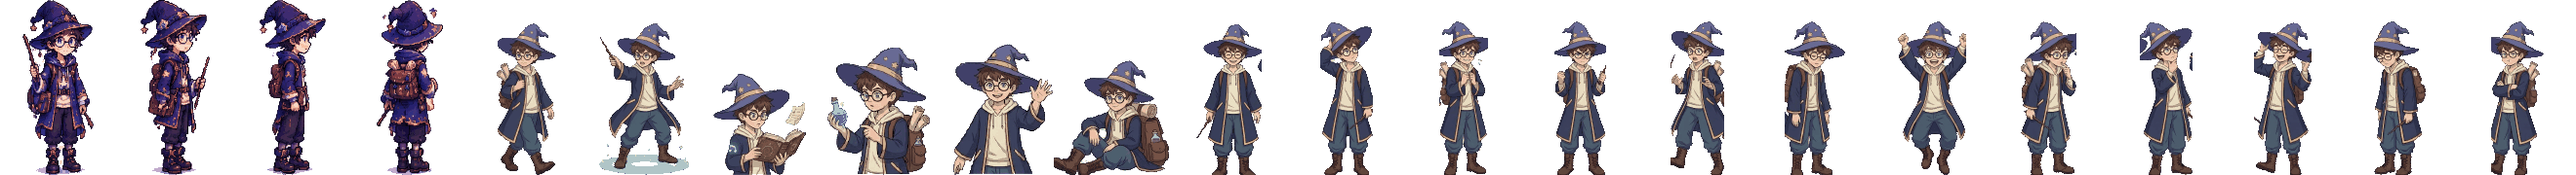
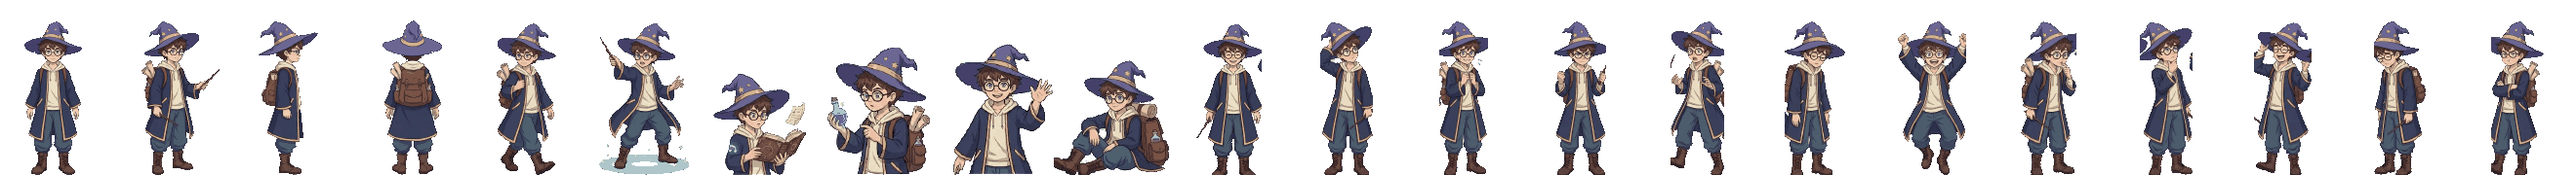
Luke: his four views now come from the new turnaround sheet
- luke-poses.webp: front, three-quarter (with his wand), side and back cut from the turnaround, replacing the previous art that stood in for them
- make_luke.py no longer has the stand-in option; docs and comments updated; image total 1,127,453 bytes (limit 1.125 MB)

Claude-Session: https://claude.ai/code/session_011JZdHyG1HcKh8zE2GxaXVa

Changed region(s): [[0.0, 0.0, 0.1864, 1.0]]

diff --git a/js/v6-addfood.js b/js/v6-addfood.js
@@ -9,8 +9,7 @@
      resting and the twelve expressions), the twelve expression heads (luke-faces.webp: happy, confused, nervous,
      determined, surprised, tired, excited, curious, thinking, laughing, sad, annoyed), the PROPS and the ROUND PORTRAIT
      (luke-props.webp: books, notes, wand, backpack, scrolls, potion, portrait) and his painted room (luke-room.webp).
-     Meet Luke (Settings) steps through every figure and shows his things. The waiting pose is happy; the four views are
-     the previous art until the turnaround sheet is supplied. He reacts to what happens (director() below), in CSS only:
+     Meet Luke (Settings) steps through every figure and shows his things. The waiting pose is happy. He reacts to what happens (director() below), in CSS only:
        - waiting: happy; after 30 s of no input he is resting, tired; as you type he turns three-quarter to listen
          (surprised, then determined once you give detail) with his notes out;
        - searching: he turns all the way round through the angles (walking, three-quarter, side, back, and back again)

diff --git a/tools/art/make_luke.py b/tools/art/make_luke.py
@@ -2,9 +2,6 @@
 
     python3 tools/art/make_luke.py TURNAROUND ACTIONS EXPRESSIONS_1 EXPRESSIONS_2 PROPS ROOM [OUT_DIR]   # default OUT_DIR: assets/img
 
-TURNAROUND may be "-": the four views then keep the first four frames (front, three-quarter, side, back) of the luke-poses.webp
-already in OUT_DIR, as a stand-in until the turnaround sheet is supplied.
-
 Input: five 1024 x 572 "LUKE" sheets (made with Gemini from briefs written in the session) and his painted room:
   TURNAROUND    front, three-quarter (with his wand), side, back
   ACTIONS       walking, casting a spell, reading his spellbook, inspecting a potion, waving hello, resting
@@ -30,12 +27,12 @@ from PIL import Image
 sys.path.insert(0, os.path.dirname(__file__))
 import make_luna_poses as M   # the same cutting code; the sheets' background is within its tolerance
 
-# name: the sheet's figures left to right, the x between neighbours (the turnaround's are read off the sheet; the
-# expression sheets' are the quietest columns near the gaps: their hats overlap a little)
+# name: the sheet's figures left to right, the x between neighbours (the turnaround's are the empty columns between its
+# figures; the expression sheets' are the quietest columns near the gaps: their hats overlap a little)
 # the last number is the bottom edge: the turnaround has no captions; on the expression sheets the feet end above the
 # sheet's ground line (y 542) and the captions are under it
 ROWS = [
-    ('turn', ['front', 'three', 'side', 'back'], [258, 546, 770], 572),
+    ('turn', ['front', 'three', 'side', 'back'], [258, 544, 770], 572),
     ('expr1', ['happy', 'confused', 'nervous', 'determined', 'surprised', 'tired'], [215, 376, 523, 679, 843], 541),
     ('expr2', ['excited', 'curious', 'think', 'laugh', 'sad', 'annoyed'], [224, 383, 539, 711, 858], 541),
 ]
@@ -84,10 +81,6 @@ def quantize(img, colors):
     return img.quantize(colors=colors, method=Image.Quantize.MEDIANCUT, dither=Image.Dither.NONE)
 
 def main(turn, actions, expr1, expr2, props, room, out):
-    old = None
-    if turn == '-':
-        old = Image.open(os.path.join(out, 'luke-poses.webp')).convert('RGBA')
-        turn = expr1                                    # any sheet: its four cuts are replaced below
     sheets = {'turn': clean(Image.open(turn).convert('RGB')), 'expr1': clean(Image.open(expr1).convert('RGB')),
               'expr2': clean(Image.open(expr2).convert('RGB'))}
     acts = clean(Image.open(actions).convert('RGB'))
@@ -102,15 +95,6 @@ def main(turn, actions, expr1, expr2, props, room, out):
     for n, box in ACTIONS.items():
         cuts[n] = M.cut(acts, box, 3)
     M.build(cuts, out, 'luke-poses.webp', POSES, H, FW, BODY, PCOLORS)
-    if old is not None:
-        dst = os.path.join(out, 'luke-poses.webp')
-        strip = Image.open(dst).convert('RGBA')
-        for i in range(4):
-            slot = (i * FW, 0, i * FW + FW, H)
-            strip.paste(Image.new('RGBA', (FW, H), (0, 0, 0, 0)), slot[:2])
-            strip.alpha_composite(old.crop(slot), slot[:2])
-        strip.save(dst, lossless=True, quality=100, method=6)
-        print('the four views are the previous art (stand-in until the turnaround sheet is supplied):', os.path.getsize(dst), 'bytes')
     strip = Image.new('RGB', (FS * len(FACES), FS))
     for i, (_, pose) in enumerate(FACES):
         im, box = heads[pose]

diff --git a/docs/ARCHITECTURE_AUDIT.md b/docs/ARCHITECTURE_AUDIT.md
@@ -1663,11 +1663,10 @@ Luna replaces Medius in the event speech bubbles; the art is a hand-placed pixel
 ### Luke's new design sheets and painted room (owner, 2026-10-15: the images, after the prompt for Luke)
 
 - **Art source:** the owner's "LUKE" sheets (1024 × 572: expressions parts 1 and 2, the action poses, props and palette, and
-  a turnaround) and a painted night study, made with Gemini from the prompt written in the session. The turnaround arrived
-  as an attachment mid-task and was not saved to disk, so it could not be cut: the four views (front, three-quarter,
-  side, back) are **still the previous art** until the sheet is supplied again (`make_luke.py -` keeps them).
+  the turnaround: front, three-quarter with his wand, side, back) and a painted night study, made with Gemini from the
+  prompt written in the session. The sheets are not stored in the repo.
 - **Recut:** `tools/art/make_luke.py` (rewritten for these sheets; it shares the cutting code of `make_luna_poses.py`) →
-  `luke-poses.webp` (2640 × 180, ≈ 82 KB, **22** figures at 120 × 180, 64 colours), `luke-faces.webp` (768 × 64, ≈ 23 KB,
+  `luke-poses.webp` (2640 × 180, ≈ 72 KB, **22** figures at 120 × 180, 64 colours), `luke-faces.webp` (768 × 64, ≈ 23 KB,
   **12** heads), `luke-props.webp` (280 × 40, ≈ 4 KB, seven tiles), `luke-room.webp` (640 × 358, ≈ 93 KB, 128 colours,
   drawn smoothed). `luna-room.webp` is no longer made by this tool and is unchanged.
 - **Code:** `js/v6-addfood.js` has 22 poses and 12 expressions; his reactions now use the new figures (waiting is happy,
@@ -1675,7 +1674,7 @@ Luna replaces Medius in the event speech bubbles; the art is a hand-placed pixel
   thinking, a high-confidence answer is excited, numbers that do not add up are confused, not a food is curious, an error
   is sad). The turn (walking, three-quarter, side, back, ...) is generated from the pose order. **Meet Luke** (Settings)
   steps through all 22 figures and shows his seven things, like Luna's.
-- **Budget:** the images total 1,137,357 bytes: the owner's 1 MB limit could not hold this art, so
+- **Budget:** the images total 1,127,453 bytes: the owner's 1 MB limit could not hold this art, so
   `tests/24-performance` now allows 1.125 MB (1,179,648 bytes); no image is over 100 KB. This raise follows the owner's
   earlier instruction to increase the budget for Luna; it should be confirmed.
 - **Tests:** `tests/67-addfood.test.mjs` updated to the new poses, expressions and sizes, with a new test that Meet Luke

diff --git a/docs/PIXEL_STYLE.md b/docs/PIXEL_STYLE.md
@@ -179,5 +179,4 @@ opacity only, and every scene stops off screen, in a hidden tab and for reduced 
   expressions; the reading, inspecting and waving figures are drawn waist-up on the sheet and are close-ups), the twelve
   expression heads (`luke-faces.webp`, 64 × 64), his things and round portrait (`luke-props.webp`, 40 × 40 tiles) and his
   painted room (`luke-room.webp`, 640 × 358, 128 colours, drawn smoothed like the Laboratory's, the same exception to
-  rule 5). Meet Luke (Settings) steps through every figure. Until the turnaround sheet is supplied his four views are the
-  previous art.
+  rule 5). Meet Luke (Settings) steps through every figure.
